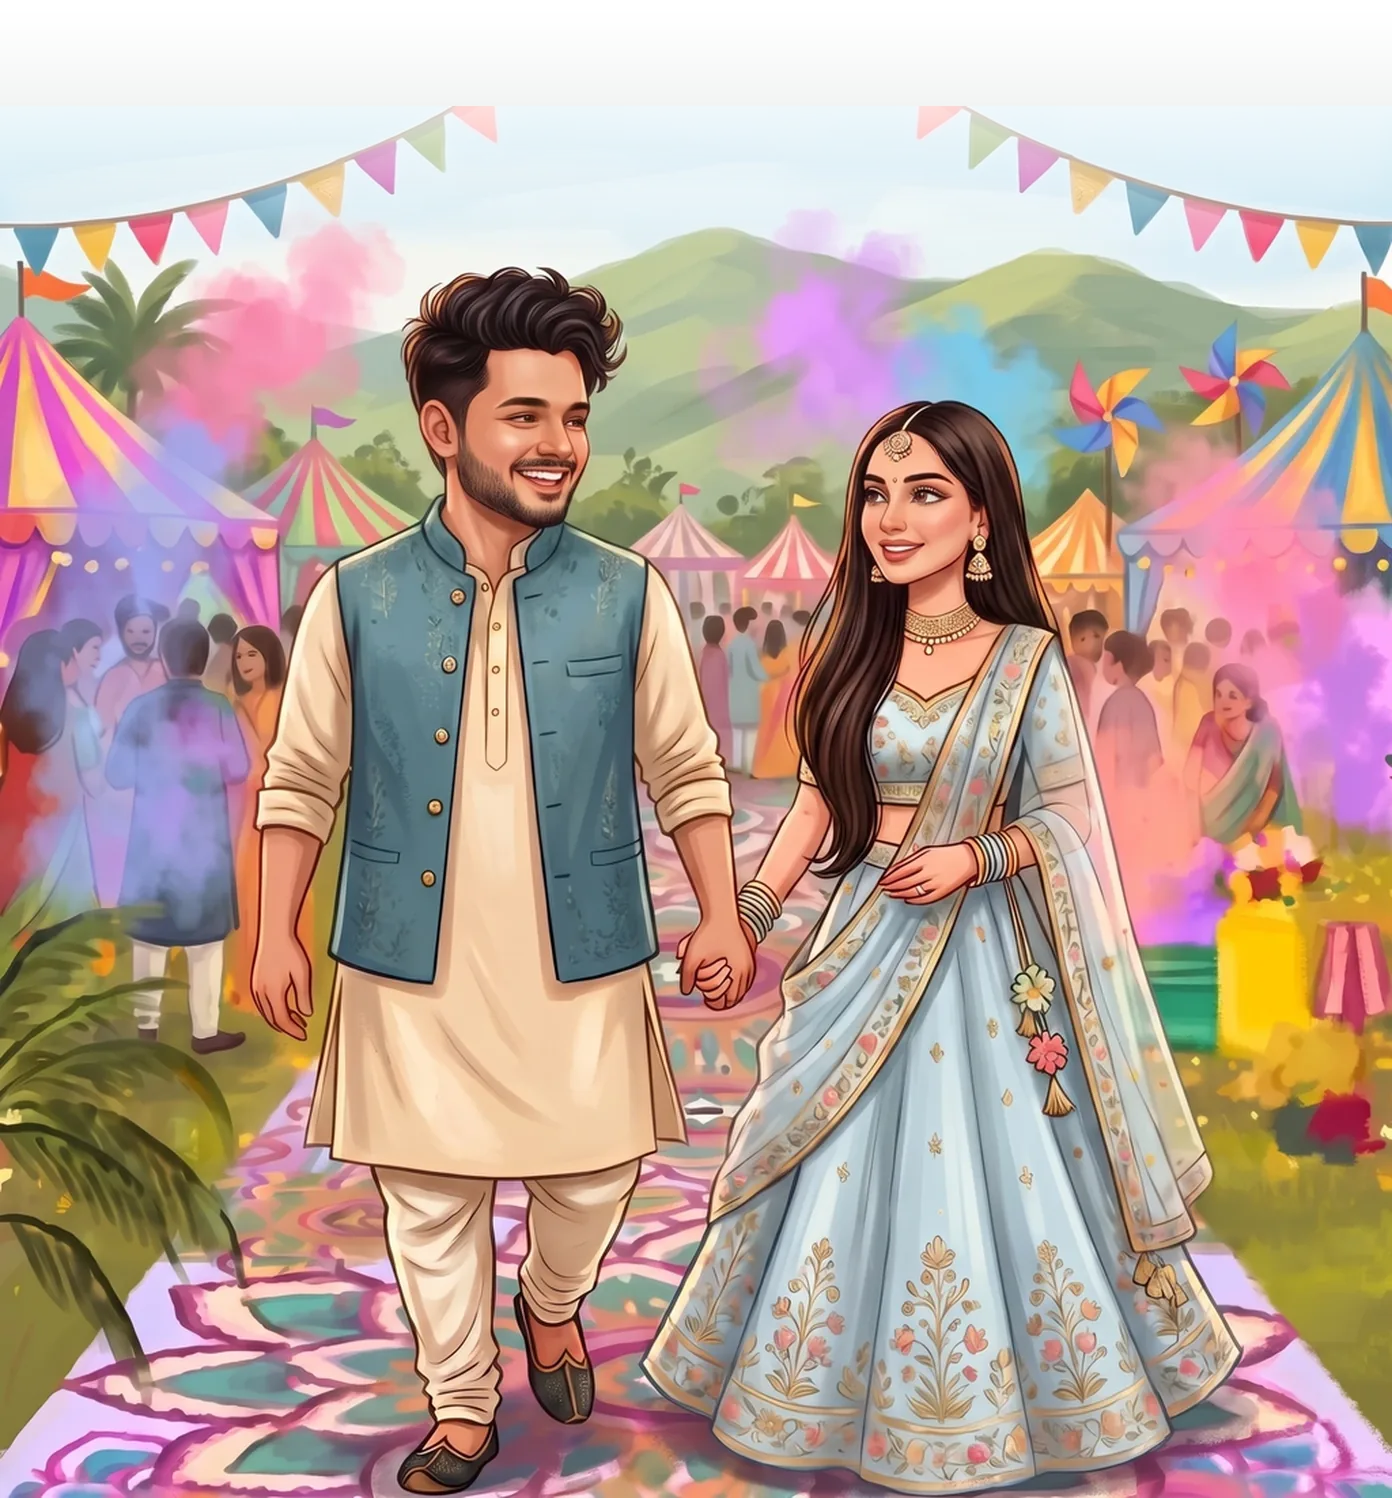
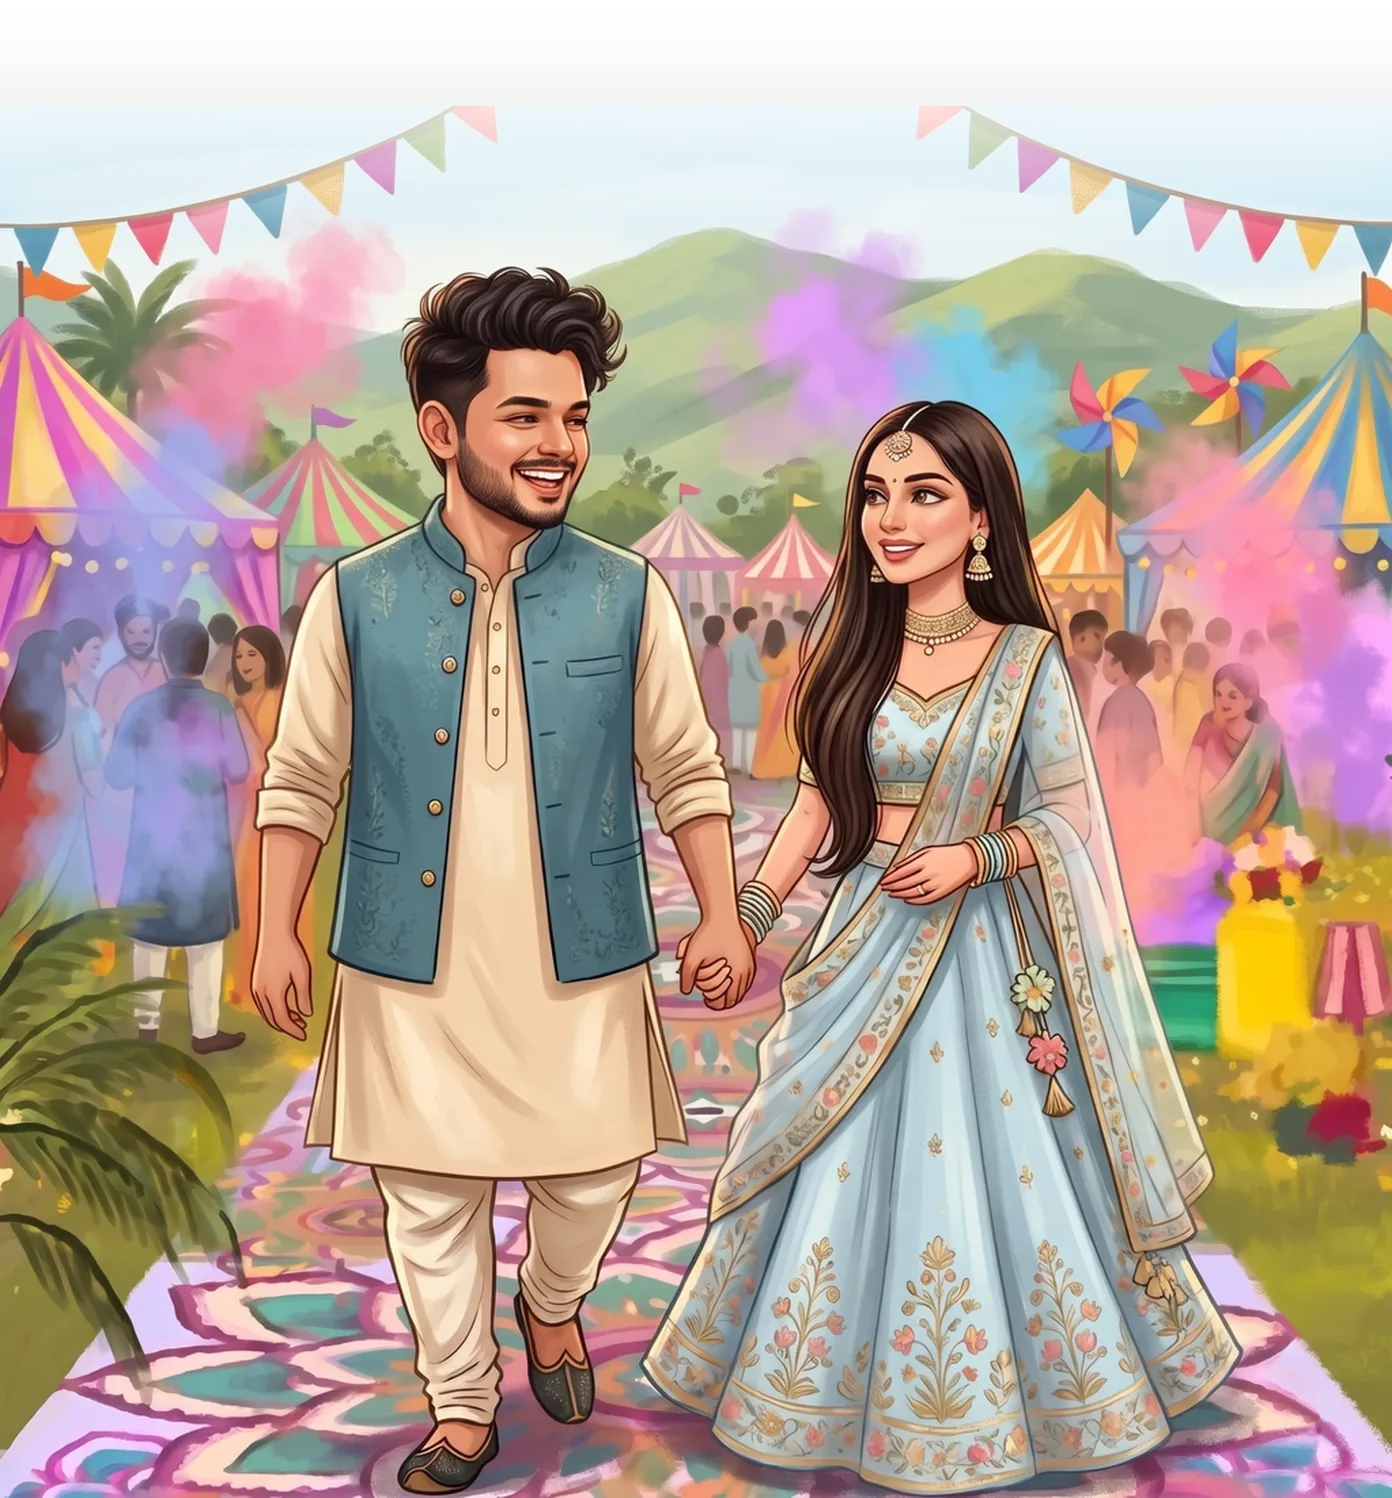
Carnival: the user's chosen picture, star mark removed
Star search is now limited to Gemini's fixed spot near the corner, so a faint
star on a pale background is still found.

diff --git a/index.html b/index.html
@@ -170,7 +170,7 @@
     <a class="btn" href="calendar/carnival.ics" data-reveal>Add to calendar</a>
   </div>
   <div class="page__art">
-    <img class="page__bottom" data-strip="bottom" src="assets/art/carnival-bottom.webp?v=6" width="928" height="999" alt="Illustration of the couple walking into a meadow carnival of tents, pinwheels and colour" loading="lazy" decoding="async">
+    <img class="page__bottom" data-strip="bottom" src="assets/art/carnival-bottom.webp?v=8" width="928" height="999" alt="Illustration of the couple walking into a meadow carnival of tents, pinwheels and colour" loading="lazy" decoding="async">
     <div class="page__fx" aria-hidden="true">
       <span class="pinwheel pinwheel--1"></span><span class="pinwheel pinwheel--2"></span>
       <span class="gulal gulal--1"></span><span class="gulal gulal--2"></span><span class="gulal gulal--3"></span>

diff --git a/tools/remove_sparkle.py b/tools/remove_sparkle.py
@@ -55,20 +55,26 @@ def find_star(a, box):
     sat = (c.max(axis=2) - c.min(axis=2)) / (c.max(axis=2) + 1)
     D = (lum - bg) - 60 * sat   # pale and neutral
     best = None
-    for sc in np.arange(.55, 1.21, .05):
+    # Gemini puts the star a fixed distance in from the corner (64 px on a 2000 px image), so only
+    # search a small neighbourhood of that spot, at sizes close to the expected one
+    s0 = a.shape[1] / 2000
+    ex = a.shape[1] - int((64 + 92) * s0) - x0
+    ey = a.shape[0] - int((63 + 93) * s0) - y0
+    for sc in np.arange(.9, 1.11, .05) * s0:
         tw, th = max(8, round(TEMPLATE.width * sc)), max(8, round(TEMPLATE.height * sc))
         t = np.asarray(TEMPLATE.resize((tw, th), Image.BILINEAR)) > 127
         r = np.asarray(Image.fromarray(t.astype(np.uint8) * 255).filter(ImageFilter.MaxFilter(7))) > 0
         ring = r & ~(np.asarray(Image.fromarray(t.astype(np.uint8) * 255).filter(ImageFilter.MaxFilter(3))) > 0)
         h, w = D.shape
-        for yy in range(0, h - th, 2):
-            for xx in range(0, w - tw, 2):
+        R = int(18 * s0)
+        for yy in range(max(0, ey - R), min(h - th, ey + R) + 1, 2):
+            for xx in range(max(0, ex - R), min(w - tw, ex + R) + 1, 2):
                 win = D[yy:yy + th, xx:xx + tw]
                 score = win[t].mean() - win[ring].mean()
                 if best is None or score > best[0]:
                     best = (score, sc, yy, xx, t)
     score, sc, yy, xx, t = best
-    if score < 18:
+    if score < 6:
         return None
     m = np.zeros(a.shape[:2], bool)
     m[y0 + yy:y0 + yy + t.shape[0], x0 + xx:x0 + xx + t.shape[1]] = t
